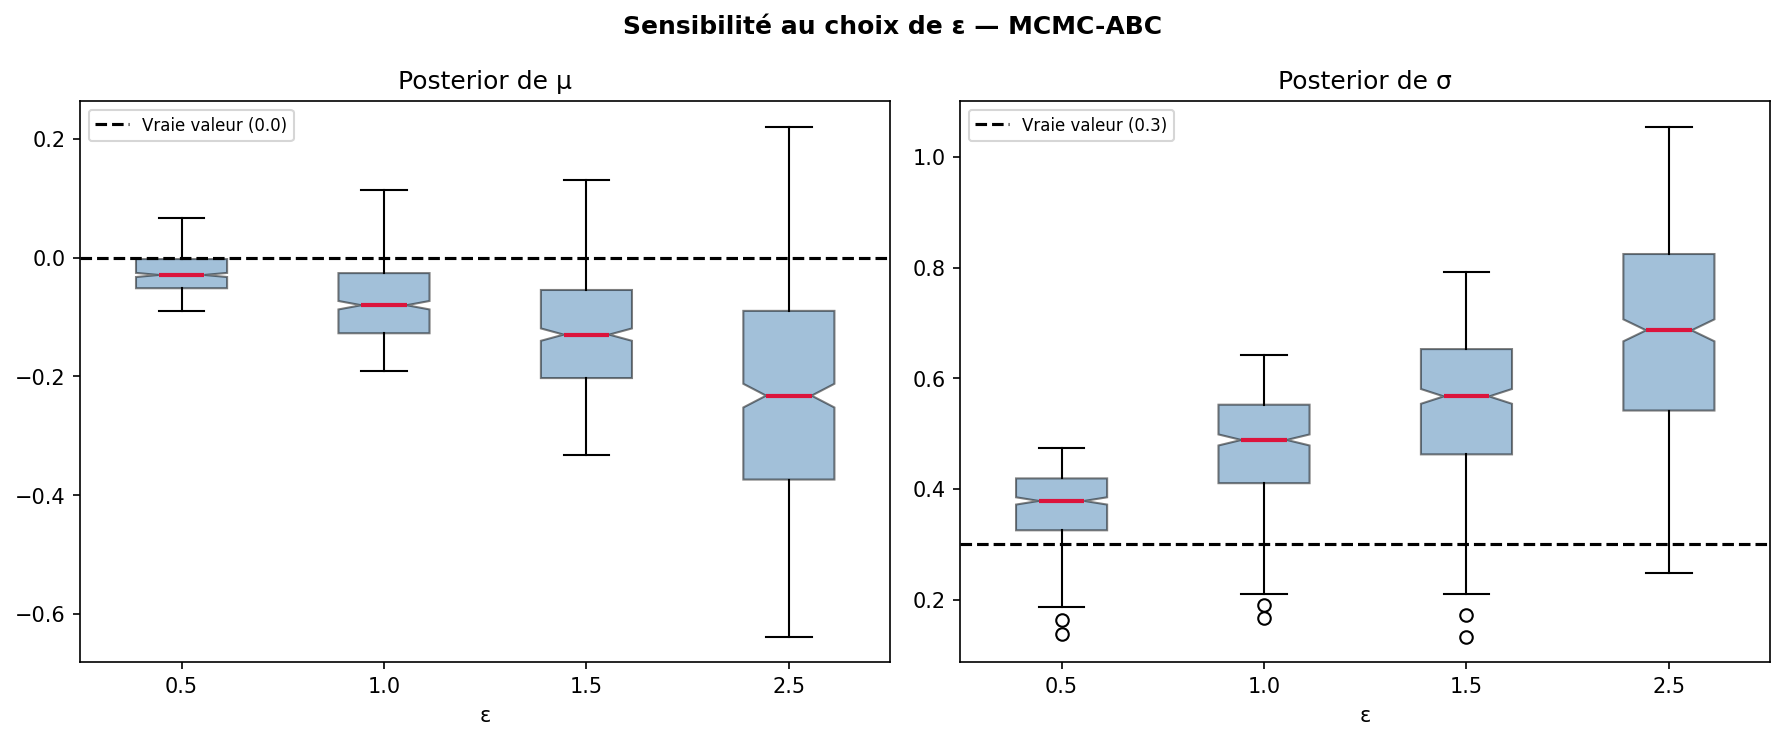
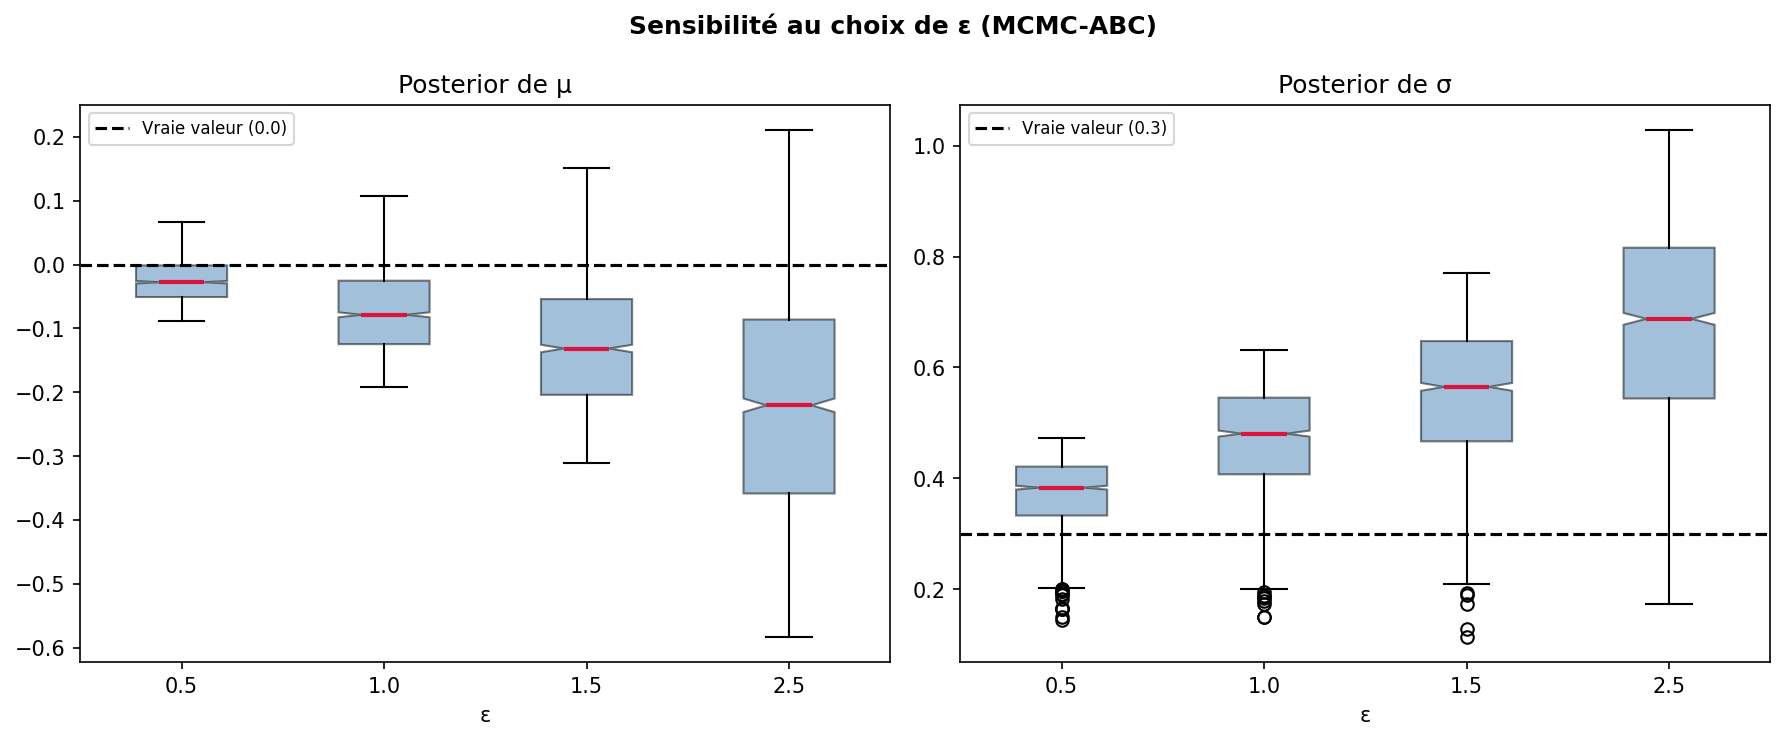
Last updates MCMC-ABC

diff --git a/MCMC_ABCv2.py b/MCMC_ABCv2.py
@@ -22,7 +22,7 @@ S_PRIOR = 1.0
 T_PRIOR = 1.0
 
 # Chaîne MCMC
-N_CHAINS  = 1       # nombre de chaînes parallèles (vmappées)
+N_CHAINS  = 4       # nombre de chaînes parallèles (vmappées)
 N_BURN    = 8_000   # longueur du burn-in
 N_ITER    = 40_000  # longueur post-burn-in
 K_THIN    = 100     # facteur de thinning
@@ -166,7 +166,7 @@ def find_valid_init(key, y_obs_sorted, epsilon, n_tries=10_000,
     )
 
 
-def run_all_chains(mcmc_abc_single, key, theta0, epsilon, delta, n_chains=N_CHAINS,
+def run_all_chains(mcmc_abc_single, key, theta0s, epsilon, delta, n_chains=N_CHAINS,
                    n_burn=N_BURN, n_iter=N_ITER):
     """
     Lance N_CHAINS chaînes en parallèle via vmap.
@@ -178,9 +178,9 @@ def run_all_chains(mcmc_abc_single, key, theta0, epsilon, delta, n_chains=N_CHAI
     subkeys = jax.random.split(key, n_chains)
 
     # vmap uniquement sur les keys, pas les autres params.
-    mcmc_abc_vmap = jax.vmap(mcmc_abc_single, in_axes=(0, None, None, None, None))
+    mcmc_abc_vmap = jax.vmap(mcmc_abc_single, in_axes=(0, 0, None, None, None))
     # Lancer toutes les chaînes en parallèle
-    all_samples, all_acc_rates = mcmc_abc_vmap(subkeys, theta0, epsilon, delta, n_burn + n_iter)
+    all_samples, all_acc_rates = mcmc_abc_vmap(subkeys, theta0s, epsilon, delta, n_burn + n_iter)
 
     chains_post = all_samples[:, n_burn:, :]   # dim (n_chains, n_iter, 2)
 
@@ -321,10 +321,14 @@ if __name__ == "__main__":
     print(f"Données observées : {M_OBS} obs, L={L}, mu={TRUE_MU}, sigma={TRUE_SIGMA}")
     print(f"ε = {EPSILON},  {N_CHAINS} chaînes,  {N_BURN} burn-in + {N_ITER} iter\n")
 
-    # Initialisation valide
-    print("Recherche d'un theta0 valide")
-    theta0, key_run = find_valid_init(key_run, Y_OBS_sorted, EPSILON)
-    print(f"theta0 = (mu={float(theta0[0]):.3f}, sigma={float(theta0[1]):.3f})\n")
+    # Initialisation
+    print("Recherche d'un theta0 valide pour chaque chaine")
+    theta0_list = []
+    for _ in range(N_CHAINS):
+        key_run, key_init = jax.random.split(key_run)
+        theta0_i, _ = find_valid_init(key_init, Y_OBS_sorted, EPSILON)
+        theta0_list.append(theta0_i)
+    theta0s = jnp.stack(theta0_list)  # shape (n_chains, 2)
 
     # Construction de la chaîne
     mcmc_abc_single = make_mcmc_abc(Y_OBS_sorted, EPSILON, DELTA)
@@ -332,7 +336,7 @@ if __name__ == "__main__":
     # JIT + lancement (le premier appel compile, donc plus long)
     print("Compilation et lancement des chaînes (vmap + jit)")
     chains_post, acc_rates = run_all_chains(
-        mcmc_abc_single, key_run, theta0, EPSILON, DELTA
+        mcmc_abc_single, key_run, theta0s, EPSILON, DELTA
     )
     print(f"Taux d'acceptation par chaîne : {np.array(acc_rates)}")
     print(f"Taux moyen : {float(jnp.mean(acc_rates)):.3f}\n")
@@ -350,11 +354,16 @@ if __name__ == "__main__":
 
         # Recherche d'un theta0
         key_run, key_init = jax.random.split(key_run)
-        theta0_eps, _ = find_valid_init(key_init, Y_OBS_sorted, eps)
+        theta0_list = []
+        for _ in range(N_CHAINS):
+            key_run, key_init = jax.random.split(key_run)
+            theta0_i, _ = find_valid_init(key_init, Y_OBS_sorted, eps)
+            theta0_list.append(theta0_i)
+        theta0s_eps = jnp.stack(theta0_list)  # shape (N_CHAINS, 2)
 
         # Lancement des chaines
         key_run, key_chains = jax.random.split(key_run)
-        chains_eps, acc_eps = run_all_chains(mcmc_fn, key_chains, theta0_eps, eps, DELTA)
+        chains_eps, acc_eps = run_all_chains(mcmc_fn, key_chains, theta0s_eps, eps, DELTA)
         print(f"     Taux d'acceptation moyen : {float(jnp.mean(acc_eps)):.3f}")
 
         # Thinning